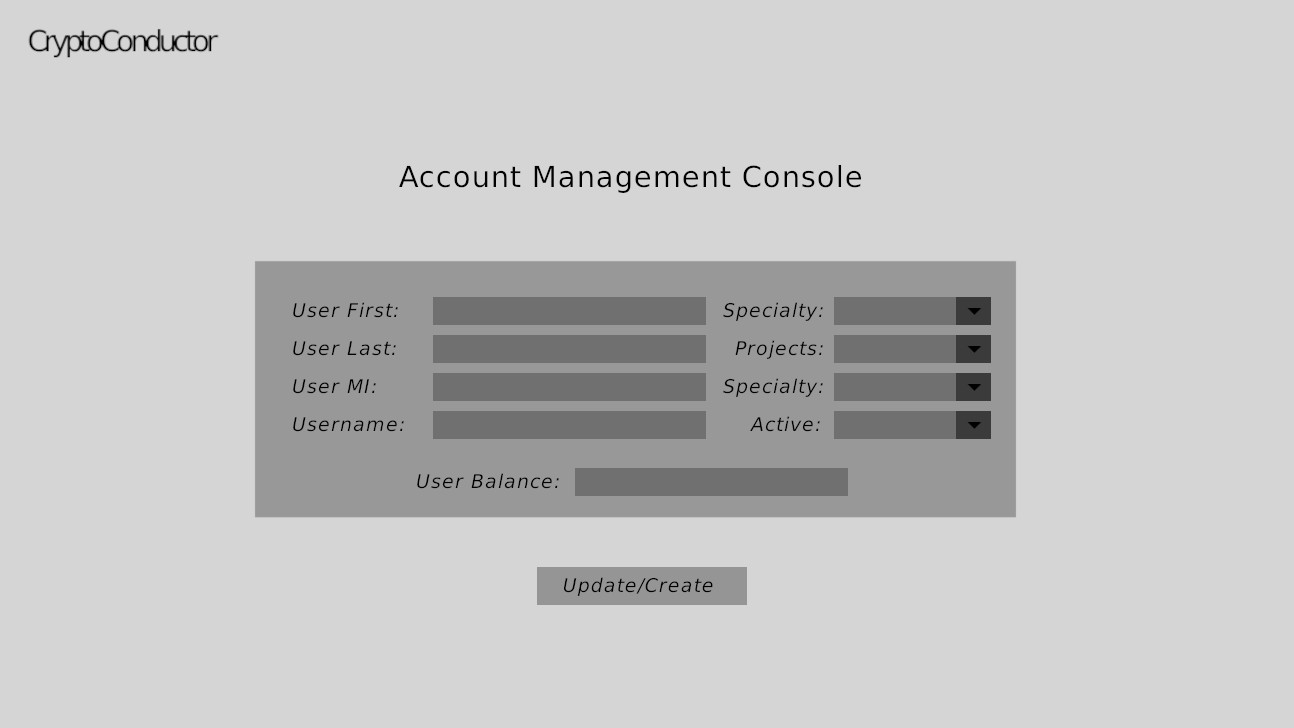
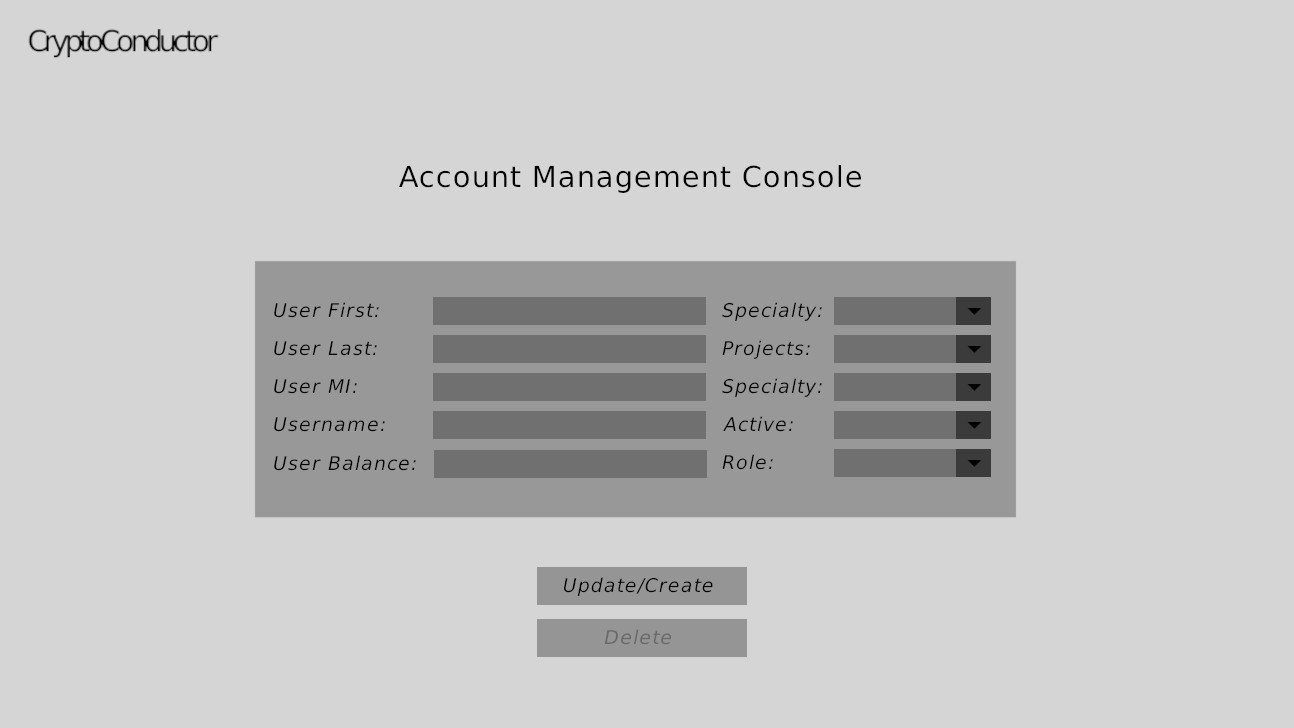
User Story/Mockup/Models alignment

diff --git a/source/API/models.py b/source/API/models.py
@@ -119,14 +119,17 @@ class Project(models.Model):
     description = models.CharField(max_length=500)
     specialties = models.ManyToManyField("Specialty")
     niches = models.ManyToManyField("Niche")
+    clients = models.ManyToManyField("User")
+    denials = models.ManyToManyField("User", related_name="denial_users")
     status = models.CharField(max_length=20, choices=STATUS)
+    public = models.BooleanField()
 
     def __str__(self):
-        return self.name + " : Status: " + self.status
+        return self.name + " : Status: " + self.status + " : Public: " + str(self.public)
 
     class ProjectAdmin(admin.ModelAdmin):
-        filter_horizontal = ('niches', 'specialties')
-        list_display = ('name', 'description', 'get_specialties', 'get_niches', 'status')
+        filter_horizontal = ('niches', 'specialties', 'clients')
+        list_display = ('name', 'description', 'get_specialties', 'get_niches', 'get_clients', 'get_denials', 'status')
 
         # self = ProjectAdmin - The class that the method is defined in
         # obj = The parameter that the class takes. Project in this case. Based on ModelAdmin - Gives an instance of a django model
@@ -135,6 +138,12 @@ class Project(models.Model):
 
         def get_niches(self, obj):
                 return "\n".join([str(p) + " : " for p in obj.niches.all()])[:-2]
+
+        def get_clients(self, obj):
+            return "\n".join([str(p) + " : " for p in obj.clients.all()])[:-2]
+
+        def get_denials(self, obj):
+            return "\n".join([str(p) + " : " for p in obj.denials.all()])[:-2]
 
 
 # Establishes connection between project and project admin classes

diff --git a/docs/README.md b/docs/README.md
@@ -56,7 +56,7 @@ The CryptoConductor prototype created for CYBR 8470 will carry out basic design 
 
 ## Overview
 
-_User stories_ help better elicit software design requirements for any system in a more holistic and complete manner. While many use cases can be inuitively perceived through the obvious functions of a given system, more subtle use cases can be missed without more organized and intentional probing. The _user stories_ in this document help communicate the expectations users require when using the CryptoConductor platform.
+_User stories_ help better elicit software design requirements for any system in a more holistic manner. While many use cases can be inuitively perceived through the obvious functionality of a given system, more subtle use cases can be missed without organized and intentional probing. The _user stories_ in this document help communicate the expectations users require when using the CryptoConductor platform.
 
 
 ### Users
@@ -68,7 +68,7 @@ _User stories_ help better elicit software design requirements for any system in
 
 #### Specialists
 
-Specialists comprise any user that provides numerical or text-based data in relation to a project in the system. Specialists are given one or more specialties, and can only submit information relating directly to those specialties. If a cybersecurity expert is involved in grading a software system, they would be given a _cybersecurity_ specialty and allowed to submit information relating only to the Software Assurance portion of the grading scale. Specialties are dynamic and can be added, changed, or removed for a better, more flexible set of Specialists.
+Specialists comprise any discipline-speicific user that provides scoring data in relation to a project in the system. Specialists are given one or more specialties relating to one or more niches. Each Specialist can only submit information relating directly to those specialties and niches. If a cybersecurity expert is involved in grading a software system, they would be given a _Technology_ specialty, a _Cybersecurity_ niche, and allowed to submit information relating only to the Software Assurance portion of the grading scale. Specialties are dynamic and can be added, changed, or removed for a better, more flexible set of Specialists.
 
 #### Leaders
 
@@ -88,26 +88,27 @@ Associates are any entity that does not have any vested interest in the system. 
 
 - As a **Specialist**, I want to **browse pertinent projects** so I can **find out if I need to provide input**.
   - _Acceptance Criteria:_
-    1. Ensure view project interface exists
-    2. Ensure each project can be viewed by specialty
-    3. Each project must have a list of specializations defined
-    4. Specialist interface lists projects with specialist specializations
-    5. Project listing in specialist interface has an active edit hyperlink
+    1. Ensure project dashboard exists
+    2. Ensure each project can be viewed by specialty and niche
+    3. Each project must have a list of specializations and niches defined
+    5. Project listing in specialist project dashboard has an active edit/view hyperlink
 
 - As a **Specialist**, I want to **open pertinent projects** so I can **read existing information about the project**.
   - _Acceptance Criteria:_ 
-    1. Ensure a view project interface exists
-    2. Ensure each project can be viewed by specialty
-    3. Provide an edit hyperlink 
-    4. Open project in specialist view
-
+    1. Ensure project dashboard exists
+    2. Ensure each project can be viewed by niche
+    3. Ensure each project can be edited by specialty
+    3. Provide an edit/view hyperlink as needed
+    4. Open project project entries dashboard
+    
 - As a **Specialist**, I want to **edit pertinent projects** so I can **add numerical scoring and text notes to the project**.
   - _Acceptance Criteria:_
-    1. Ensure project view interface exists
-    2. Ensure projects can be viewed by specialty
+    1. Ensure project dashboard exists
+    2. Ensure projects can be viewed by specialty and edited by niche
     3. Provide add/edit user notes button that is available only for input made by current user
-    4. Ensure numerical user score field exists
-    5. Provide an edit numerical score button 
+    4. Ensure Notes and Score fields exists
+    5. Autopopulate username, specialty, and nice.
+    5. Provide an update/create button
     
 <!---
 - As a **Specialist**, I want to **view pertinent project scores** so I can **determine how my input affected the overall score**.
@@ -126,24 +127,24 @@ Associates are any entity that does not have any vested interest in the system. 
 
 - As a **Leader**, I want to **create new projects** so I can **start the scoring process**.
   - _Acceptance Criteria:_
-    1. Ensure new project interface exists
-    2. Leader interface provides new project button
-    3. New project process allows user to enter Name, Description, checkmark specialties, and limit access
-    4. Create button makes new project
+    1. Ensure project dashbaord exists
+    2. Leader role enables New Project button
+    3. Project management console allows user to enter Title, Description, choose specialties, niches, clients, and limit access
+    4. Ensure existence of create button
      
 - As a **Leader**, I want to **edit projects** so I can **fix errors or update information**.
   - _Acceptance Criteria:_
-    1. Ensure project edit interface exists
-    2. Leader interface provides a list of existing projects
-    3. Ensure edit button exists for each project in the leader interface list
-    4. Edit button links to project edit interface
+    1. Ensure project dashboard exists
+    2. Leader role enables edit for all projects
+    4. Edit button links to project management console
+    4. Ensure existence of update button
  
 - As a **Leader**, I want to **view projects** so I can **track specialist changes**.
   - _Acceptance Criteria:_
-    1.  Ensure project view interface exists
+    1.  Ensure project dashboard exists
     2.  Provide role based views of each project
-    3.  Ensure all changes to any given project are logged
-    4.  List change history for each piece of information in the project
+    3.  Ensure all changes to any given project are logged in project entries
+    4.  Ensure Project entires dashboard can filter by specialist, specialty, niche, and score.
 
 <!---
 - As a **Leader**, I want to **view projects** so I can **track specialist participation**.
@@ -166,10 +167,10 @@ Associates are any entity that does not have any vested interest in the system. 
 
 - As a **Client**, I want to **view my project** so I can **check on scoring progress**.
   - _Acceptance Criteria:_
-    1. Ensure view project interface exists
-    2. Ensure project view provides user specific views
-    3. Allow projects to have a client list
-    4. Display all projects that have the client contained in the client list  
+    1. Ensure project dashboard exists
+    2. Allow projects to have a client list
+    2. Ensure project dahsbaord displays only client-related projects
+    4. Ensure the existence of a view hyperlink for each project the client can view
 
 <!--
 - As a **Client**, I want to **view my project** so I can **read specialist input**.
@@ -178,10 +179,15 @@ Associates are any entity that does not have any vested interest in the system. 
 
 #### Associate User Stories
 
+- As an **Associate**, I want to **view public project information** so I can **view scores of public projects**.
+  - _Acceptance Criteria:_
+    1. Ensure project dashboard exists
+    2. Display only publically available project scores
+
 - As an **Associate**, I want to **communicate with a leader** so I can **ask questions**.
   - _Acceptance Criteria:_
-    1. Ensure a generic communication interface is available
-    2. Display generic contact information with all non-authorized users  
+    1. Ensure project dashboard is available
+    2. Display generic contact information
 
 
 ## Misuser Stories
@@ -190,23 +196,26 @@ Associates are any entity that does not have any vested interest in the system. 
 
 - As a **Specialist _Misuser_**, I want to **open unauthorized projects** so I can **read information I'm not allowed to know**.
   - _Mitigation Criteria:_ 
-    1. Ensure project view requires user specialties to view
+    1. Ensure project dashboard uses user specialties to limit data presented
     2. Ensure each specialist account has a list of specialties
-    3. Specialists require authorization to change specialties
-    4. Project view uses specialist profile specialties to check access
-    5. Project view only allows access if specialist and project share at least one specialty
+    3. Ensure each specialist account has a list of niches
+    3. Specialists require authorization from a leader to change specialties and niches
+    4. Project dashboard uses specialist profile role, specialties, and niches to check access
+    5. Project dashboard only allows viewing if specialist and project share at least one specialty
+    6. Project dashboard only allows editing of entries if specialist and project share at least one niche.
 
 - As a **Specialist _Misuser_**, I want to **edit unauthorized projects** so I can **change other specialist input values**.
   - _Mitigation Criteria:_
-    1. Ensure project view requires user specific criteria to edit
-    2. Entries created by current user are given and edit button
-    3. Edit button allows user to change values on only their input
+    1. Ensure project dashboard uses user specific criteria to enable editing
+    2. Ensure specialists can only edit project entries if they share a niche
+    2. Entries created by current user are given an edit button
+    3. Edit button allows user to change values on their input
     4. All changes to projects are tracked 
 
 - As a **Specialist _Misuser_**, I want to **edit unauthorized projects** so I can **make changes without anyone knowing**.
   - _Mitigation Criteria:_
-    1. Project view and edit interfaces both log all changes
-    2. Leader interface provides logging view to keep track of changes 
+    1. Project and project entries dashboards both log all changes
+    2. Ensure project dashboard displays logs hyperlink for leaders
 
 <!--
 - As a **Specialist _Misuser_**, I want to **edit unauthorized projects** so I can **provide inappropriate input**.
@@ -217,28 +226,29 @@ Associates are any entity that does not have any vested interest in the system. 
 
 
 #### Leader Misuser Stories
-- As a **Leader _Misuser_**, I want to **edit project** so I can **change specialist input without permission**.
+
+- As a **Leader _Misuser_**, I want to **edit projects** so I can **change specialist input without permission**.
   - _Mitigation Criteria:_
-    1. Edit project view allows leader editing for all data
+    1. Project dashboard allows leader to edit for all data
     2. All project changes are logged by the system
     3. All specialist input changes are reported to the specialist that created them
 
 - As a **Leader _Misuser_**, I want to **edit project** so I can **delete input I don't like**.
   - _Mitigation Criteria:_
-    1. Ensure project view interface exists
+    1. Ensure project dashboard exists
     2. Ensure delete button for specialist input exists
     3. Clicking delete notifies specialist that input is to be deleted
-    4. Ensure accept delete button exists in delete interface
+    4. Ensure accept delete prompt exists
     5. Delete only occurs when Leader and Specialist accept delete
 
 - As a **Leader _Misuser_**, I want to **delete projects** so I can **delete projects I don't like**.
   - _Mitigation Criteria:_
-    1. Ensure project view interface exists
+    1. Ensure project dashboard exists
     2. Ensure delete project function exists
     3. Ensure delete button exists for each project
     4. Delete button triggers notification to all other leaders that project is to be deleted
     5. Accept button on delete interface must be acted upon by another leader
-    6. Two leaders start a 30 day countdown to delete 
+    6. Two leaders accepting delete start a 30 day countdown to delete 
 
 - As a **Leader _Misuser_**, I want to **edit the system** so I can **delete specialists I don't like**.
   - _Mitigation Criteria:_
@@ -257,32 +267,35 @@ Associates are any entity that does not have any vested interest in the system. 
 
 - As a **Client _Misuser_**, I want to **edit my projects** so I can **change scoring**.
   - _Mitigation Criteria:_
-    1. Ensure project view interface exists
-    2. Ensure that each project view requires a user role
+    1. Ensure project dashboard exists
+    2. Ensure that each project dashboard view requires a user role
     3. Ensure each project has a client list
-    4. User role cannot be changed by users
+    4. Ensure User role can only be changed by leader
     5. Client list can only be changed by Leader
-    6. Project view gets user role from user profile
-    7. Project view checks client name
+    6. Project dashboard gets user role from user profile
+    7. Project dahsboard checks client name
     8. If client name on project list, client can view
     9. Client cannot edit
 
 - As a **Client _Misuser_**, I want to **view other projects** so I can **learn about my competition**.
   - _Mitigation Criteria:_
-    1. Ensure project view interface exists
-    2. Ensure that each project view requires a user role
+    1. Ensure project dashboard exists
+    2. Ensure that each project dashboard view requires a user role
     3. Ensure each project has a client list
-    4. User role cannot be changed by users
+    4. User role can only be changed by Leaders
     5. Client list can only be changed by Leader
-    6. Project view gets user role from user profile
-    7. Project view checks client name
+    6. Project dashboard gets user role from user profile
+    7. Project dashboard checks client name
     8. If client name on project list, client can view
     9. Client cannot edit
 
 #### Associate Misuser Stories
 
-- As an **Associate _Misuser_**, I want to **view projects** so I can **find out information that I shouldn't know**.
+- As an **Associate**, I want to **view private project information** so I can **view scores of private projects**.
   - _Mitigation Criteria:_
-    1. Ensure Generic communication view exists
-    2. For non-authenticated users display communication view
-    3. Associate can email Leaders for more information 
+  	1. Ensure project dashboard exists
+  	2. Project dashboard checks user role
+  	2. Ensure authenticated users must login
+  	3. Ensure unauthenticated users are considered associates
+  	3. If user role is not authenticated, only public project scores are displayed.
+  	4. Display generic communication information
